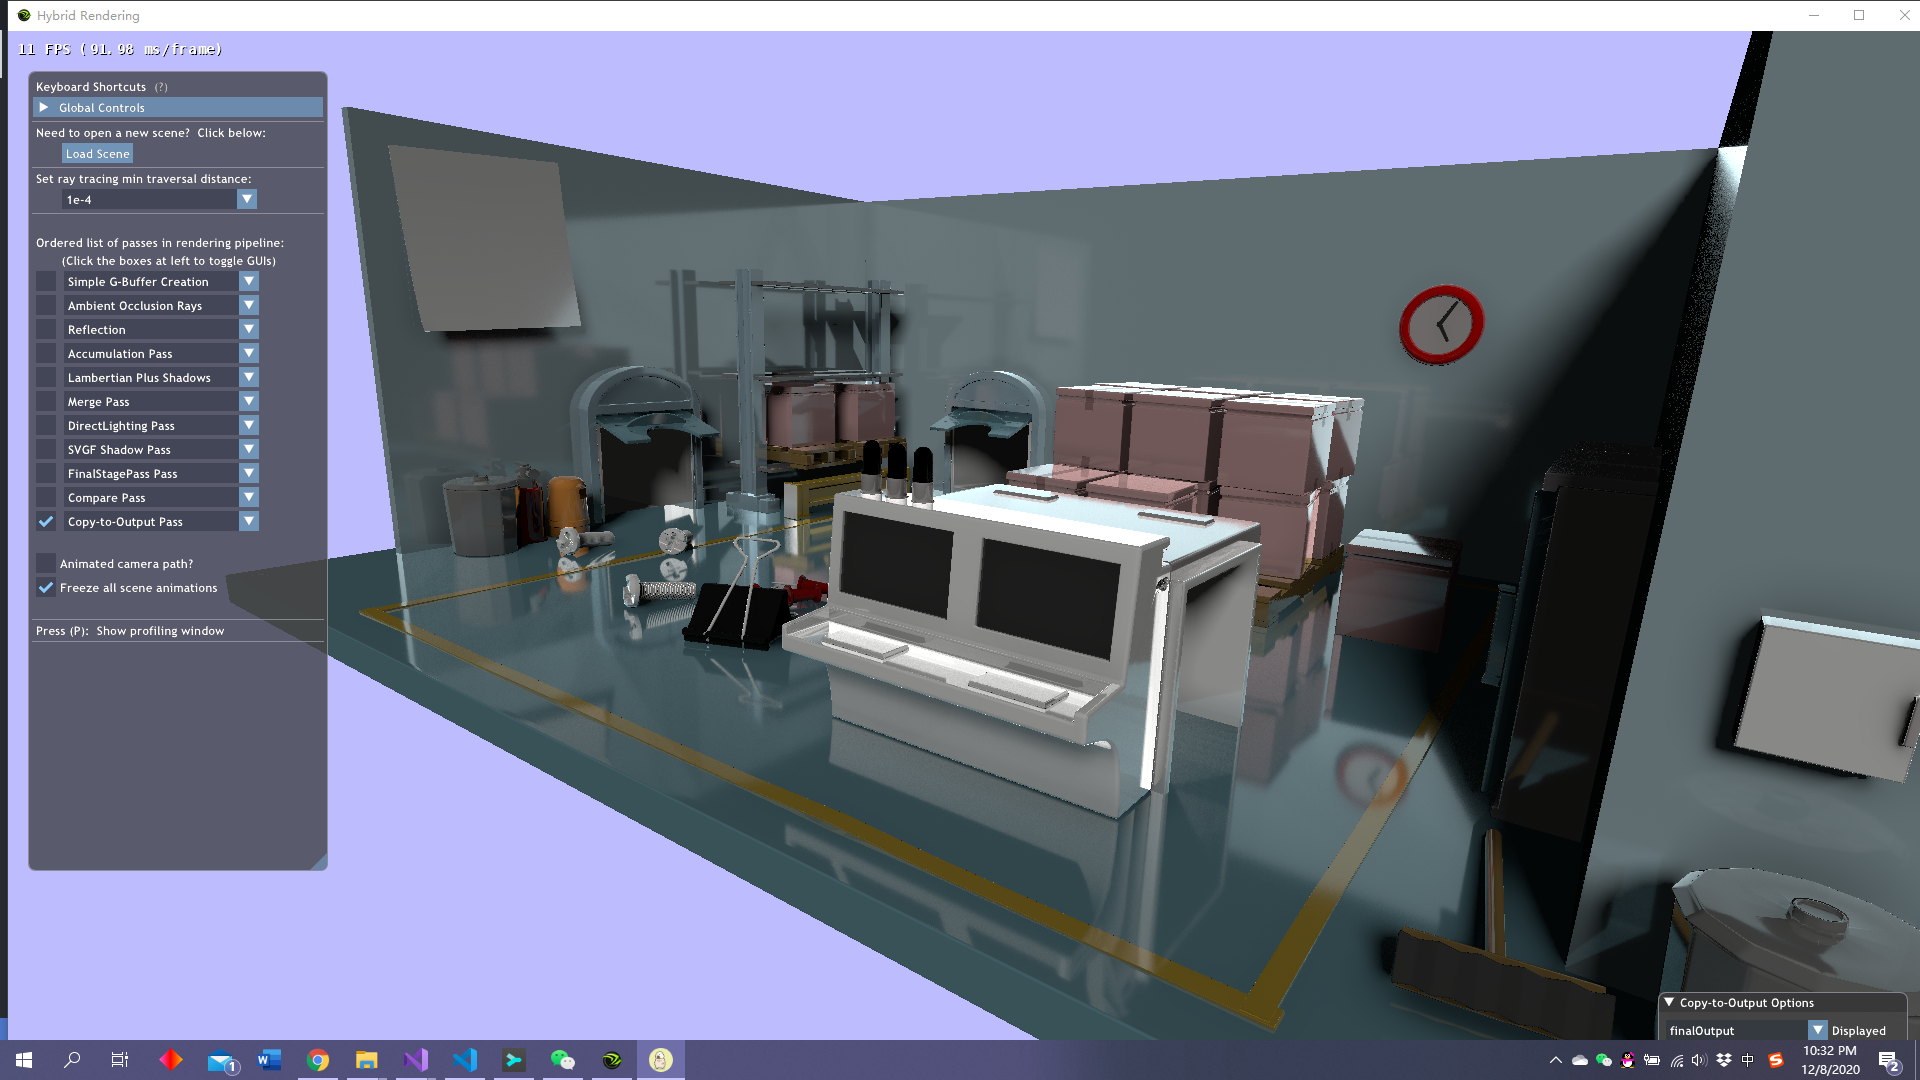
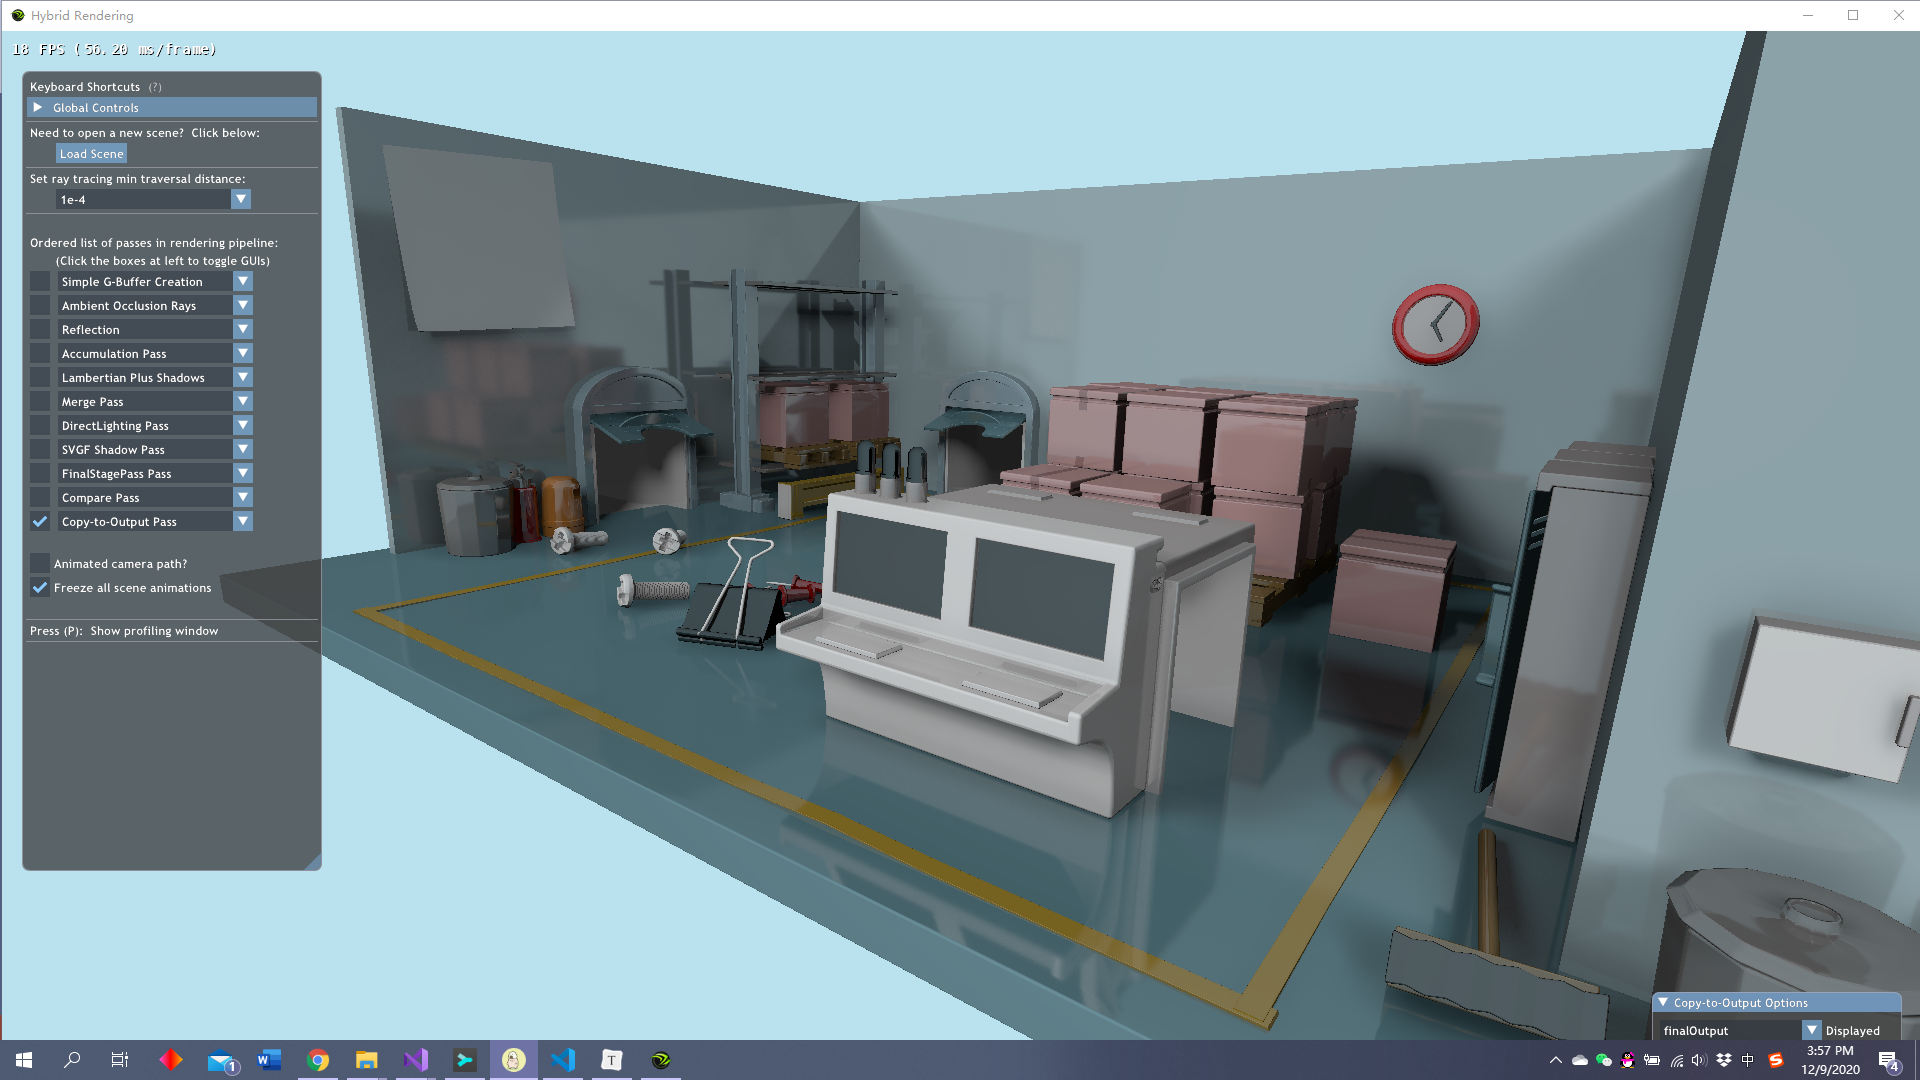
lighting for open scene

diff --git a/HybridRenderingPipeline/Passes/ReflectionPass.cpp b/HybridRenderingPipeline/Passes/ReflectionPass.cpp
@@ -38,7 +38,7 @@ bool ReflectionPass::initialize(RenderContext* pRenderContext, ResourceManager::
 {
 	// Keep a copy of our resource manager; request needed buffer resources
 	mpResManager = pResManager;
-	mpResManager->requestTextureResources({ "WorldPosition", "WorldNormal", "MaterialDiffuse", "MaterialSpecRough", "MaterialExtraParams", "shadowChannel" });
+	mpResManager->requestTextureResources({ "WorldPosition", "WorldNormal", "MaterialDiffuse", "MaterialSpecRough", "shadowChannel" });
 	mpResManager->requestTextureResource(mAccumChannel);
 
 	// Create our wrapper around a ray tracing pass.  Tell it where our shaders are, then compile/link the program
@@ -75,13 +75,12 @@ void ReflectionPass::execute(RenderContext* pRenderContext)
 	auto rayGenVars = mpRays->getRayGenVars();
 	rayGenVars["RayGenCB"]["gMinT"] = mpResManager->getMinTDist();
 	rayGenVars["RayGenCB"]["gFrameCount"] = mFrameCount++;
-	rayGenVars["RayGenCB"]["gReverseRoughness"] = mReverseRoughness;
+	rayGenVars["RayGenCB"]["gOpenScene"] = mIsOpenScene;
 	// Pass our G-buffer textures down to the HLSL so we can shade
 	rayGenVars["gPos"] = mpResManager->getTexture("WorldPosition");
 	rayGenVars["gNorm"] = mpResManager->getTexture("WorldNormal");
 	rayGenVars["gDiffuseMatl"] = mpResManager->getTexture("MaterialDiffuse");
 	rayGenVars["gSpecMatl"] = mpResManager->getTexture("MaterialSpecRough");
-	rayGenVars["gExtraMatl"] = mpResManager->getTexture("MaterialExtraParams");
 	rayGenVars["gShadow"] = mpResManager->getTexture("shadowChannel");
 	rayGenVars["gOutput"] = pDstTex;
 
@@ -94,7 +93,7 @@ void ReflectionPass::renderGui(Gui* pGui)
 	int dirty = 0;
 
 
-	dirty |= (int)pGui->addCheckBox("Reverse Roughness", mReverseRoughness);
+	dirty |= (int)pGui->addCheckBox("Is Open Scene", mIsOpenScene);
 
 	// If any of our UI parameters changed, let the pipeline know we're doing something different next frame
 	if (dirty) setRefreshFlag();

diff --git a/PathTracingPipeline/PathTracing.cpp b/PathTracingPipeline/PathTracing.cpp
@@ -22,6 +22,7 @@
 #include "Passes/GlobalIllumination.h"
 #include "../CommonPasses/SimpleAccumulationPass.h"
 #include "../CommonPasses/SimpleToneMappingPass.h"
+#include "../CommonPasses/CopyToOutputPass.h"
 
 int WINAPI WinMain(_In_ HINSTANCE hInstance, _In_opt_ HINSTANCE hPrevInstance, _In_ LPSTR lpCmdLine, _In_ int nShowCmd)
 {
@@ -33,7 +34,7 @@ int WINAPI WinMain(_In_ HINSTANCE hInstance, _In_opt_ HINSTANCE hPrevInstance, _
 	pipeline->setPass(1, GlobalIlluminationPass::create("HDRColorOutput"));  // Output our result to "HDRColorOutput"
 	pipeline->setPass(2, SimpleAccumulationPass::create("HDRColorOutput"));     // Accumulate on "HDRColorOutput"
 	pipeline->setPass(3, SimpleToneMappingPass::create("HDRColorOutput", ResourceManager::kOutputChannel));  // Tonemap "HDRColorOutput" to the output channel
-   
+
 	// Define a set of config / window parameters for our program
     SampleConfig config;
 	config.windowDesc.title = "Path Tracing";

diff --git a/HybridRenderingPipeline/Passes/ReflectionPass.h b/HybridRenderingPipeline/Passes/ReflectionPass.h
@@ -36,5 +36,5 @@ protected:
     // Various internal parameters
     uint32_t                                mMinTSelector = 1;      ///< Allow user to select which minT value to use for rays
     uint32_t                                mFrameCount = 0;
-    bool                                    mReverseRoughness = false;
+    bool                                    mIsOpenScene = true;
 };
